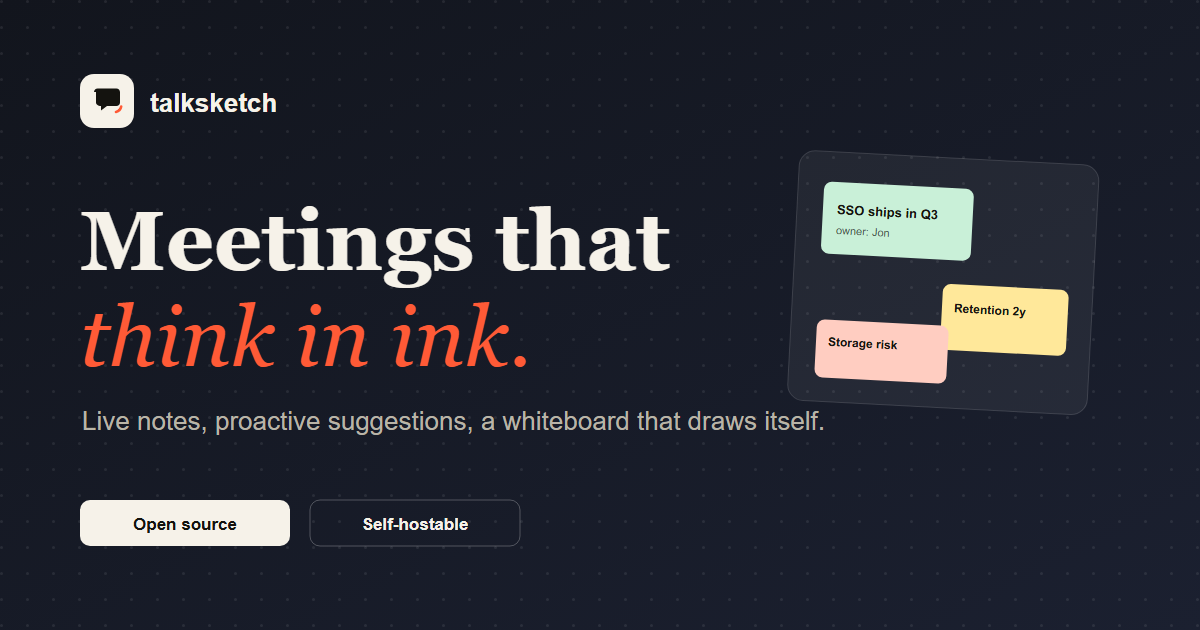
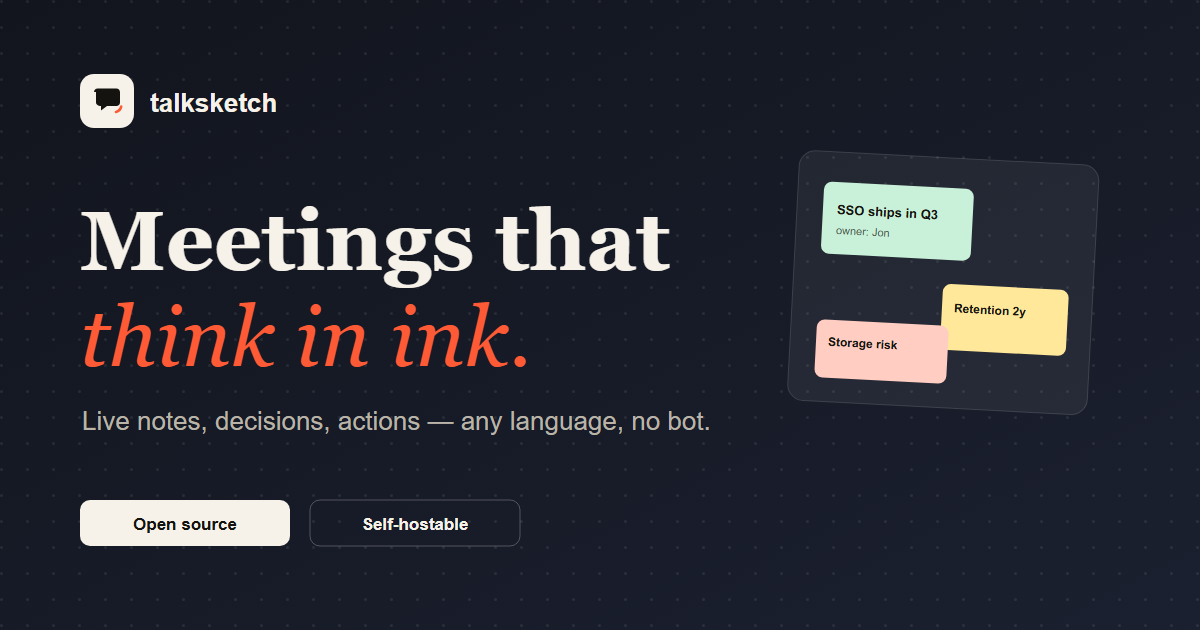
site: reflect PCM capture, any-language notes, local board, source segments

Changed region(s): [[0.185, 0.6333, 0.6783, 0.6937]]

diff --git a/index.html b/index.html
@@ -18,7 +18,7 @@
     <meta property="og:title" content="TalkSketch — the meeting that writes itself" />
     <meta
       property="og:description"
-      content="Live notes, decisions and a whiteboard that draws itself. Open source, self-hostable, $12/month for cloud AI."
+      content="Live notes, decisions and a whiteboard that fills itself. Open source, self-hostable, $12/month for cloud AI."
     />
     <meta property="og:image" content="https://talksketch.work/assets/og.png" />
     <meta property="og:image:width" content="1200" />
@@ -41,7 +41,7 @@
         "name": "TalkSketch",
         "applicationCategory": "BusinessApplication",
         "operatingSystem": "Windows, macOS, Linux",
-        "description": "AI meeting partner with live notes, decisions and a shared whiteboard.",
+        "description": "AI meeting partner with live notes, decisions and a local whiteboard.",
         "offers": [
           { "@type": "Offer", "price": "0", "priceCurrency": "USD", "name": "Free" },
           { "@type": "Offer", "price": "12", "priceCurrency": "USD", "name": "Pro" }
@@ -84,8 +84,8 @@
           <div class="eyebrow"><span class="pulse"></span> Open source · Early access</div>
           <h1>Meetings that<br /><em>think in ink.</em></h1>
           <p class="lede">
-            TalkSketch sits in your call, writes the notes, flags what everyone missed,
-            and sketches the whiteboard — while you talk.
+            TalkSketch listens to your meeting, keeps the notes, flags what is uncertain,
+            and fills the board — without joining the call.
           </p>
           <div class="hero-actions">
             <a class="button" href="#pricing">Get Pro</a>
@@ -93,9 +93,9 @@
             <a class="button outline" href="https://54.255.181.218.sslip.io/" target="_blank" rel="noreferrer">Try the demo</a>
           </div>
           <ul class="hero-points">
-            <li>Works with Zoom, Meet and Teams</li>
-            <li>Cloud transcription, no bot required</li>
-            <li>Self-host the whole thing</li>
+            <li>Zoom, Meet, Teams, WhatsApp or YouTube</li>
+            <li>Any language, auto-detected</li>
+            <li>No bot, no meeting link</li>
           </ul>
         </div>
 
@@ -149,7 +149,7 @@
               </div>
             </div>
           </div>
-          <div class="float-badge badge-a">notes in 2s</div>
+          <div class="float-badge badge-a">notes in a minute</div>
           <div class="float-badge badge-b">0 bots in the room</div>
         </div>
       </section>
@@ -179,7 +179,7 @@
               <svg viewBox="0 0 24 24" fill="none" stroke="currentColor" stroke-width="1.7"><path d="M5 4h14v13H9l-4 3V4Z"/><path d="M9 8h6M9 12h4"/></svg>
             </div>
             <h3>Notes with a spine</h3>
-            <p>Decisions, numbers, owners and risks — one tight note every minute, never a wall of text.</p>
+            <p>Decisions, owners, deadlines and open questions — updated every minute, each point linked to the segment it came from.</p>
           </article>
 
           <article class="feature reveal" data-delay="40">
@@ -194,8 +194,8 @@
             <div class="icon blue">
               <svg viewBox="0 0 24 24" fill="none" stroke="currentColor" stroke-width="1.7"><rect x="3" y="4" width="18" height="14" rx="2"/><path d="M7 9l3 3-3 3M13 15h4"/></svg>
             </div>
-            <h3>A board that draws itself</h3>
-            <p>Agenda, key points, decisions and conclusions appear on a live Excalidraw canvas everyone can edit.</p>
+            <h3>A board that fills itself</h3>
+            <p>Agenda, key points, decisions and actions land as short labels on a local Excalidraw canvas you can edit.</p>
           </article>
 
           <article class="feature reveal" data-delay="0">
@@ -210,16 +210,16 @@
             <div class="icon ink">
               <svg viewBox="0 0 24 24" fill="none" stroke="currentColor" stroke-width="1.7"><rect x="3" y="5" width="18" height="12" rx="2"/><path d="M8 21h8M12 17v4"/></svg>
             </div>
-            <h3>No bot required</h3>
-            <p>Capture mic and system audio on your desktop. Or send a bot when you want one. Your call.</p>
+            <h3>Any app, any language</h3>
+            <p>Meet, Zoom, Teams, WhatsApp or a YouTube lecture — if it plays on your laptop, it listens. Language is auto-detected.</p>
           </article>
 
           <article class="feature reveal" data-delay="80">
             <div class="icon coral">
               <svg viewBox="0 0 24 24" fill="none" stroke="currentColor" stroke-width="1.7"><path d="M12 3l7 3v5c0 4.4-3 7.9-7 10-4-2.1-7-5.6-7-10V6l7-3Z"/><path d="M9 12l2 2 4-4"/></svg>
             </div>
-            <h3>Private by default</h3>
-            <p>Transcription runs on your machine. Cloud AI is opt-in, and self-hosting means nothing leaves your network.</p>
+            <h3>Audio isn't kept</h3>
+            <p>Chunks are transcribed and discarded. Sessions stay on your own disk, and self-hosting keeps everything in your network.</p>
           </article>
         </div>
       </section>
@@ -227,7 +227,7 @@
       <section class="section split" id="how">
         <div class="split-copy reveal">
           <span class="kicker">Ninety seconds</span>
-          <h2>Join. Talk. Leave with the artifacts.</h2>
+          <h2>Press start. Talk. Leave with the artifacts.</h2>
           <ol class="steps">
             <li>
               <span>01</span>
@@ -239,7 +239,7 @@
             </li>
             <li>
               <span>03</span>
-              <div><h3>Leave with the record</h3><p>Markdown summary, action items with owners, and a board you can keep editing or export.</p></div>
+              <div><h3>Leave with the record</h3><p>Final notes with decisions, action items and owners, plus a board you can edit or export. Every session is saved on your disk.</p></div>
             </li>
           </ol>
         </div>
@@ -301,7 +301,7 @@ docker compose up -d
         <div class="section-head reveal">
           <span class="kicker">Pricing</span>
           <h2>One subscription. Zero lock-in.</h2>
-          <p>Cloud AI, live notes and a shared board. Self-host the same stack for free if you would rather run it yourself.</p>
+          <p>Cloud AI, live notes and a local board. Self-host the same stack for free if you would rather run it yourself.</p>
         </div>
 
         <div class="price-grid">
@@ -309,14 +309,15 @@ docker compose up -d
             <div class="ribbon">Early access</div>
             <h3>Pro</h3>
             <div class="amount"><span>$</span>12<small>/month</small></div>
-            <p class="price-sub">AI notes that work alongside you. 3-day free trial.</p>
+            <p class="price-sub">Notes that keep up, in any language. 3-day free trial.</p>
             <ul>
               <li>Windows desktop app (macOS/Linux from source)</li>
-              <li>Cloud transcription (English + বাংলা)</li>
-              <li>Cloud notes with frontier models</li>
+              <li>Cloud transcription, any language</li>
+              <li>Notes linked to source segments</li>
+              <li>Decisions, actions and open questions</li>
               <li>Flags uncertain items to verify</li>
               <li>Excalidraw board, filled in live</li>
-              <li>Works with Meet, Zoom or Teams audio</li>
+              <li>Session archive on your disk</li>
               <li>Cancel anytime in PayPal</li>
             </ul>
             <div class="paypal-wrap">
@@ -355,11 +356,15 @@ docker compose up -d
           </details>
           <details class="reveal">
             <summary>How does it join my meeting?</summary>
-            <p>Two ways: the desktop app captures your mic and system audio - no bot in the room. Or you can send a bot to Zoom, Meet, Teams or Jitsi, depending on your setup.</p>
+            <p>It doesn't. The desktop app captures your mic and whatever audio plays on the laptop — Zoom, Meet, Teams, WhatsApp, a YouTube lecture. No bot, no invite link, nothing to install in the call.</p>
+          </details>
+          <details class="reveal">
+            <summary>Does it work in Bangla or other languages?</summary>
+            <p>Yes. The speech model detects the language automatically, including mixed speech, and the notes are written in the language the meeting uses. Names, numbers and technical terms are kept as spoken.</p>
           </details>
           <details class="reveal">
             <summary>What does Pro actually add?</summary>
-            <p>The Windows desktop app, cloud transcription, cloud notes powered by frontier models, uncertainty flags, and the Excalidraw board. Self-hosting is free if you bring your own model key.</p>
+            <p>The Windows desktop app, cloud transcription in any language, structured notes with source segments, decisions, action items, open questions, uncertainty flags, and the Excalidraw board. Self-hosting is free if you bring your own model key.</p>
           </details>
           <details class="reveal">
             <summary>Where does my audio go?</summary>

diff --git a/start.html b/start.html
@@ -3,8 +3,8 @@
   <head>
     <meta charset="utf-8" />
     <meta name="viewport" content="width=device-width, initial-scale=1" />
-    <title>Start a pilot — TalkSketch</title>
-    <meta name="description" content="Install TalkSketch, enter your pilot key and get live notes in Google Meet." />
+    <title>Get started — TalkSketch</title>
+    <meta name="description" content="Install TalkSketch, sign in with Google, and get live notes from any audio on your laptop." />
     <link rel="icon" href="assets/favicon.svg" type="image/svg+xml" />
     <link rel="preconnect" href="https://fonts.googleapis.com" />
     <link rel="preconnect" href="https://fonts.gstatic.com" crossorigin />
@@ -21,11 +21,11 @@
     </header>
 
     <main class="legal">
-      <p class="kicker" style="margin-top:24px">Pilot</p>
+      <p class="kicker" style="margin-top:24px">Get started</p>
       <h1>Start in three minutes.</h1>
       <p class="lede" style="color:var(--muted)">
-        The desktop preview joins Google Meet in its own window, reads the captions, and writes
-        live notes, action items and a whiteboard next to the call.
+        TalkSketch listens to whatever plays on your laptop, writes structured notes, and fills
+        a local board — no bot joins the call and there is no meeting link to paste.
       </p>
 
       <div class="pilot-steps">
@@ -38,32 +38,32 @@
 
         <article>
           <span>02</span>
-          <h2>Get a key</h2>
-          <p>Pilot seats are issued manually so we can keep the model costs under control. Email us and we will send a key tied to your account.</p>
-          <a class="button outline" href="mailto:hello@talksketch.work?subject=TalkSketch%20pilot%20key">Request a pilot key</a>
-          <p class="fine" style="margin-top:10px">Public demo key: <code>TALKSKETCH</code> (rate-limited, shared).</p>
+          <h2>Sign in</h2>
+          <p>Open TalkSketch and choose <b>Sign in with Google</b>. Your browser opens, you approve, and the app starts a <b>3-day trial</b>. No card required.</p>
+          <p class="fine" style="margin-top:10px">Pilot keys still work for self-hosted installs.</p>
         </article>
 
         <article>
           <span>03</span>
-          <h2>Run a meeting</h2>
-          <p>Open the app, paste your Meet link, join, turn on captions (CC), then press <b>Start notes</b>. Notes, actions and the board update in the right panel. Stop at the end to write the summary.</p>
+          <h2>Run anything</h2>
+          <p>Play the meeting in any app, press <b>Start notes</b>, allow screen/audio sharing and tick <b>Share system audio</b>. Chunks are cut at pauses, notes update about once a minute, and <b>Stop</b> writes the final notes.</p>
         </article>
       </div>
 
       <h2>What you need</h2>
       <ul>
         <li>Windows 10 or 11, x64.</li>
-        <li>A Google Meet call. Captions must be available and enabled.</li>
-        <li>Your pilot access key.</li>
+        <li>Any app with audio: Meet, Zoom, Teams, WhatsApp, a YouTube lecture.</li>
+        <li>A Google account for the 3-day trial.</li>
         <li>Consent from participants: tell them an AI assistant is taking notes.</li>
       </ul>
 
       <h2>What is still beta</h2>
       <ul>
-        <li>Audio capture uses the OS share picker: pick the meeting window and enable system audio.</li>
+        <li>Audio capture uses the OS share picker: pick the window and enable system audio.</li>
         <li>Transcription is cloud-based (language auto-detected); accuracy varies with accents and crosstalk.</li>
-        <li>No bot joins the call. Audio is transcribed, not stored.</li>
+        <li>Unclear names, numbers or gaps are flagged for you to verify instead of guessed.</li>
+        <li>No bot joins the call. Audio is transcribed, not stored; sessions stay on your disk.</li>
       </ul>
 
       <p style="margin-top:28px">

diff --git a/terms.html b/terms.html
@@ -23,7 +23,7 @@
 
       <h2>1. The service</h2>
       <p>
-        TalkSketch produces notes, decisions, action items, suggestions and whiteboard elements from
+        TalkSketch produces notes, decisions, action items, open questions and whiteboard elements from
         meeting transcripts. The desktop app and the open-source platform are licensed under
         Apache-2.0. The hosted Pro service is operated by TalkSketch and is subject to these terms.
       </p>
@@ -59,7 +59,7 @@
 
       <h2>5. AI output</h2>
       <p>
-        Notes, summaries, suggestions and action items are generated by models and can be wrong,
+        Notes, summaries, decisions and action items are generated by models and can be wrong,
         incomplete, or misleading. They are not legal, financial, or professional advice. Review
         anything important before relying on it, especially decisions and commitments.
       </p>

diff --git a/README.md b/README.md
@@ -1,7 +1,7 @@
 # talksketch.work
 
 Landing page for **TalkSketch** - an AI meeting partner with live notes, decisions
-and a shared whiteboard. Static HTML/CSS/JS, no build step, deployed to
+and a local whiteboard. Static HTML/CSS/JS, no build step, deployed to
 GitHub Pages.
 
 ## Local
